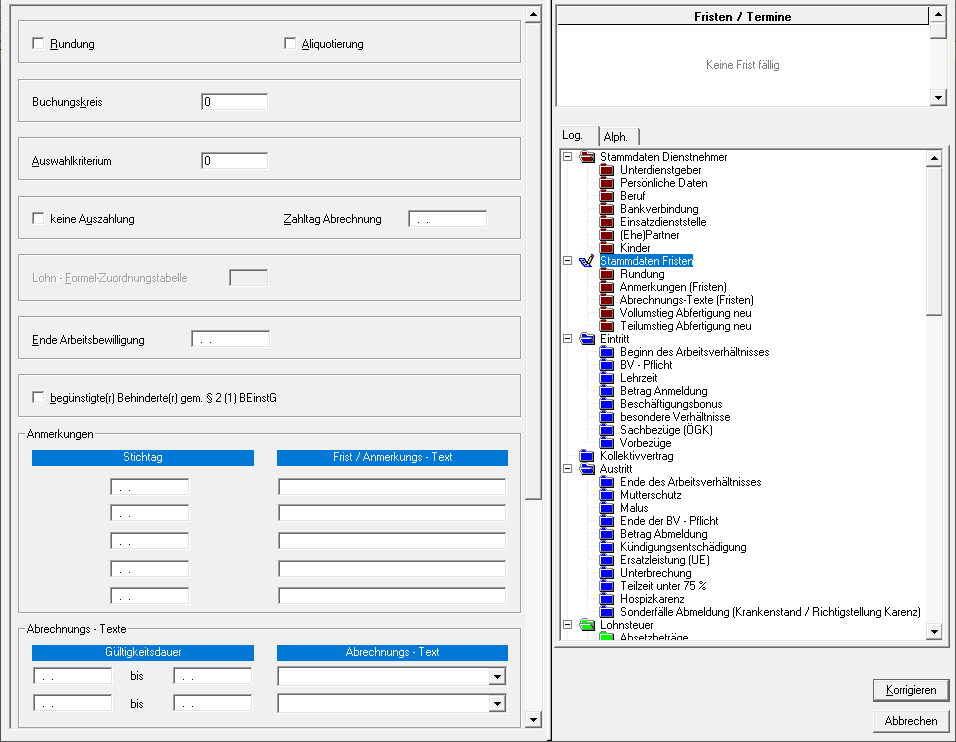
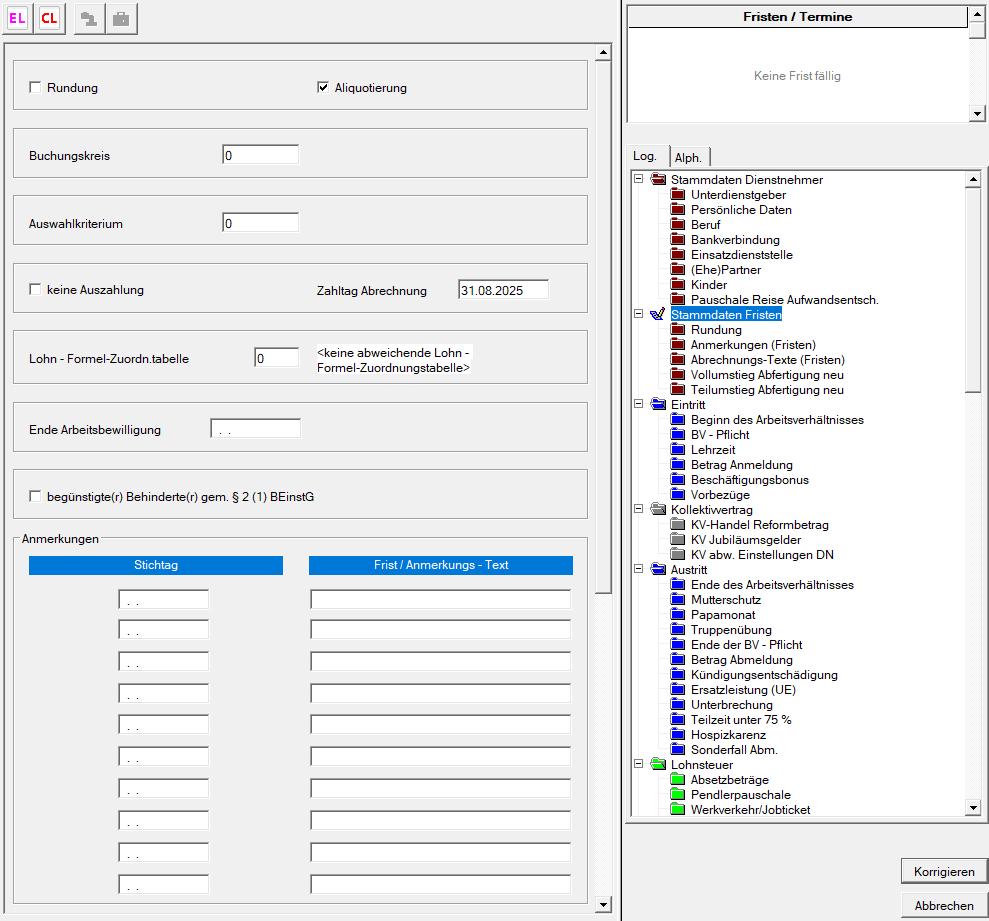
Stammdaten Fristen: Bildschirm getauscht und bei den Anmerkungen geändert, dass es jetzt 10 Anmerkungsfelder gibt

Changed region(s): [[0.0, 0.0, 1.0, 1.0], [0.8494, 0.8059, 0.9404, 0.8369], [0.7584, 0.062, 0.8494, 0.093]]

diff --git a/docs/LOHN/Abrechnungsbildschirme/Stammdaten Fristen.md b/docs/LOHN/Abrechnungsbildschirme/Stammdaten Fristen.md
@@ -43,7 +43,7 @@ Wird dieses Auswahlfeld aktiviert, dann wird der Dienstnehmer für den jeweils a
 
 ## Anmerkungen
 
-Es können bis zu 5 Anmerkungen mit Datum und Text eingegeben werden. Eine Anmerkung wird nicht auf der Lohnabrechnung angedruckt, sondern nur auf bestimmten internen Auswertungen, wie dem Stammdatenblatt und der Dienstnehmerliste mit Fristen. Typische Fälle von Anmerkungen sind ein vorhersehbarer Wechsel in der Beschäftigungsgruppe, Lohnerhöhungen zu einem bestimmten Zeitpunkt usw. Ist eine Frist abgelaufen, wird der Anmerkungstext rechts oben am Bildschirm *blinkend* angezeigt bzw. wird der Dienstnehmer in der Abrechnungsliste (*Abrechnung mit* oder *ohne Änderung*, *Korrektur letzter Abrechnung*) mit einem roten Rufzeichen markiert.
+Es können bis zu 10 Anmerkungen mit Datum und Text eingegeben werden. Eine Anmerkung wird nicht auf der Lohnabrechnung angedruckt, sondern nur auf bestimmten internen Auswertungen, wie dem Stammdatenblatt und der Dienstnehmerliste mit Fristen. Typische Fälle von Anmerkungen sind ein vorhersehbarer Wechsel in der Beschäftigungsgruppe, Lohnerhöhungen zu einem bestimmten Zeitpunkt usw. Ist eine Frist abgelaufen, wird der Anmerkungstext rechts oben am Bildschirm *blinkend* angezeigt bzw. wird der Dienstnehmer in der Abrechnungsliste (*Abrechnung mit* oder *ohne Änderung*, *Korrektur letzter Abrechnung*) mit einem roten Rufzeichen markiert.
 
 **Stichtag**
 
